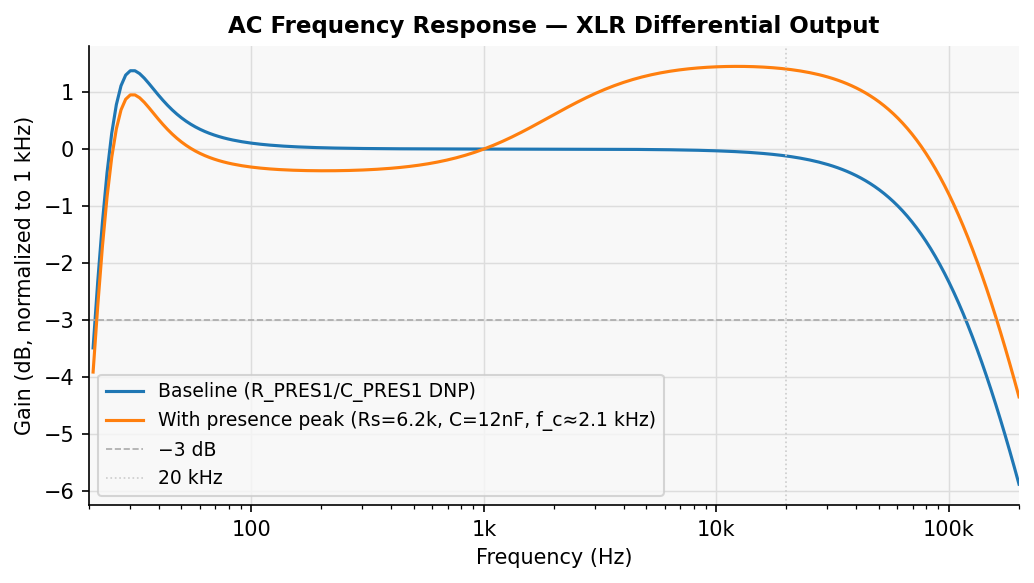
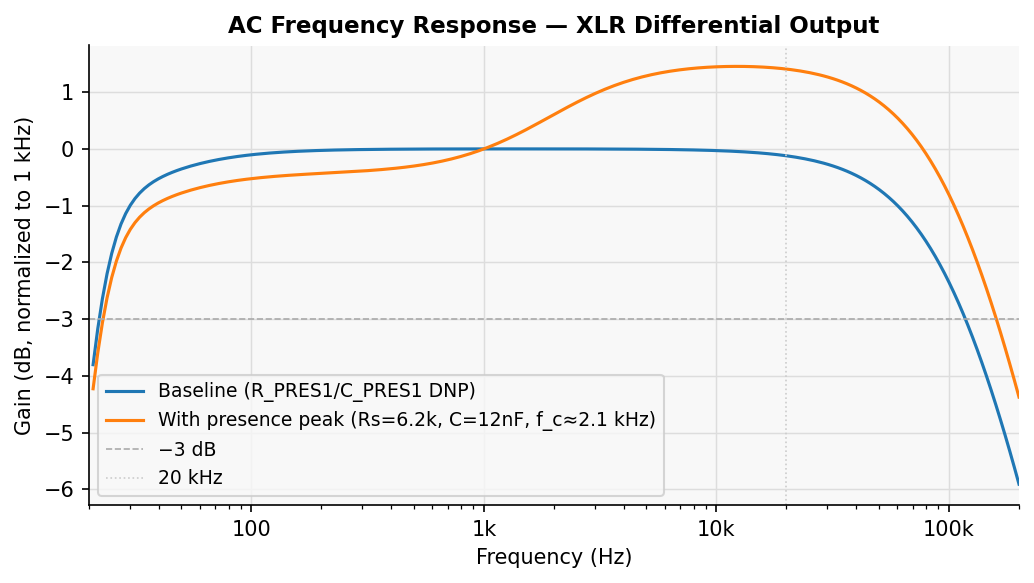
sim, docs: model the transformer with the standard equivalent circuit (#132)
The transformer was an ideal inductor. It is now modelled the usual way for an
audio transformer: winding resistance, magnetising inductance with core loss Rc
in parallel, and leakage. The 3-turn section is Lp = 10 H with Rc = 4 kOhm,
fitted to the configuration S sweep on the 3-turn wiring (rms 0.4 dB from 20 to
300 Hz, against 1.1 dB for the best ideal inductor), consistent with Neutrik's
-2 dB spec.

The ideal inductor rang with C_DC near 26 Hz (+1.4 dB at 30 Hz) where the
measurement shows no bump, and put the gain 2.4 to 4.3 dB above it. Now the
shape matches and a flat 1.2 to 1.4 dB remains, which the transformer cannot
account for: a smaller Rc to cover it spoils the low-end fit.

Sensitivity into 600 ohm -41.7 dBV/Pa (was -40.6); the CI bound, the README
(about -40 / -24 dBV/Pa into 1.5 kOhm, the low-end table, the plot) and the
measurement doc's 1 kHz expectation follow.

Claude-Session: https://claude.ai/code/session_01JJVE6iPs7mqtayJNH2CABt

diff --git a/README.md b/README.md
@@ -14,7 +14,7 @@ This design uses a Dickson charge pump oscillator to generate a 68 V HV rail fro
 - CD40106B Schmitt-trigger oscillator + 3-stage active Dickson charge pump
 - About 57 V capsule polarization (HV_FILT ≈ 69 V, set by the 15 V clock rail; a 75 V zener only protects it), referenced to the 12 V midpoint
 - HV rail RC filter: 1 MΩ (R_HV) + 470 nF, corner ~0.34 Hz; no LC resonance
-- Output sensitivity (simulated, 13 mV/Pa capsule, into a 1.5 kΩ preamp input): about −39 dBV/Pa default (R6 = 5.6 kΩ, gain ≈ 3.5×); about −23 dBV/Pa hi-gain (R6 = 47 kΩ, gain ≈ 22×). About 1.4 dB lower into 600 Ω and 1.1 dB higher unloaded; output impedance is about 200 Ω (about 310 Ω up to v3.6, with 100 Ω RFI resistors; #113)
+- Output sensitivity (simulated, 13 mV/Pa capsule, into a 1.5 kΩ preamp input): about −40 dBV/Pa default (R6 = 5.6 kΩ, gain ≈ 3.5×); about −24 dBV/Pa hi-gain (R6 = 47 kΩ, gain ≈ 22×), with the transformer's core loss modelled (#132). A built board measured about 1.3 dB below this, flat across the band; that offset is not from the transformer model and is still open. About 1.4 dB lower into 600 Ω and 1.1 dB higher unloaded; output impedance is about 200 Ω (about 310 Ω up to v3.6, with 100 Ω RFI resistors; #113)
 - Maximum SPL before the op-amp output clips (calculated): about 143 dB SPL peak at default gain, about 127 dB SPL peak at hi-gain
 - RFI filter on XLR output: 47 Ω + 220 pF on each leg (R_RFI1/R_RFI2, C_RFI1/C_RFI2; corner about 15 MHz). C_RFI is rated 100 V because it sits on the phantom-fed pins
 - Phantom power draw: ~4.6 mA typical at 48 V (IEC 61938 P48 rated maximum: 10 mA)
@@ -44,15 +44,16 @@ Charge pump settles to ~68 V within ~1 ms. HV_FILT is RC-filtered (1 MΩ + 470 n
 
 Behavioral model, gain normalized to 1 kHz. The **blue curve** (baseline / DNP) is flat within about ±1 dB from ~500 Hz to ~20 kHz. Two high-pass mechanisms shape the low end: the input network (R_GBIAS1 ∥ R_BIAS1 = 100 MΩ against the 55 pF capsule, corner ~29 Hz) and the output DC block (C_DC = 4.7 µF) with the transformer. A third sits below them: C_G1 (10 µF) in series with R3, corner 7.2 Hz, about 0.7 dB at 20 Hz. It makes the amplifier's gain 1 at DC, so offset and leakage at the 200 MΩ input do not move the operating point (`amp_dc_offset.sp`, #123).
 
-> **The low end of the default wiring is measured (#128).** The plot uses `Lp = 8 H` for the driven 3-turn section, fitted from a sweep on the 3-turn wiring into a 1.2 kΩ input (6 to 10 H fit about as well). With the 3-turn section the transformer's inductance against its own winding resistance (521 to 540 Ω) and C_DC sets a corner with a small resonance near 30 Hz. The earlier `Lp = 1 H` was a lower bound scaled from a full-winding sweep, whose low end is set by the input network, and it was too pessimistic.
+> **The low end of the default wiring is measured (#128).** The transformer is modelled with the standard equivalent circuit, including core loss: its driven 3-turn section is `Lp = 10 H` with `Rc = 4 kΩ` in parallel, fitted from a sweep on the 3-turn wiring into a 1.2 kΩ input (#132). With the 3-turn section the transformer's inductance against its own winding resistance (521 to 540 Ω) and C_DC sets the low corner. An ideal inductor (8 H) fits the low end less well and rings with C_DC near 30 Hz. The earlier `Lp = 1 H` was a lower bound scaled from a full-winding sweep, whose low end is set by the input network, and it was too pessimistic.
 >
 > | | 20 Hz | 30 Hz | 50 Hz | 100 Hz |
 > |---|---|---|---|---|
 > | measured, 3-turn, presence fitted, 1.2 kΩ (relative to 1 kHz) | −5.0 dB | −0.6 dB | −1.4 dB | −0.7 dB |
-> | model, `Lp = 8 H` (plotted, baseline) | −4.7 dB | +1.4 dB | +0.6 dB | +0.1 dB |
+> | model, `Lp = 10 H`, `Rc = 4 kΩ` (plotted, baseline) | −4.5 dB | −1.0 dB | −0.4 dB | −0.1 dB |
+> | model, ideal `Lp = 8 H` | −4.7 dB | +1.4 dB | +0.6 dB | +0.1 dB |
 > | model, `Lp = 1 H` (the earlier lower bound) | −27 dB | −18 dB | −8 dB | −1 dB |
 >
-> The measured row is on a board with the presence network, which lowers the band below 1 kHz by about 0.4 dB against 1 kHz. The 30 Hz bump in the model is not seen in the measurement. On the full winding the measured response is −3 dB at 33 Hz and −5 dB at 20 Hz, set by the input network.
+> The measured row is on a board with the presence network, which lowers the band below 1 kHz by about 0.4 dB against 1 kHz. On the full winding the measured response is −3 dB at 33 Hz and −5 dB at 20 Hz, set by the input network.
  The **orange curve** shows the optional presence-peak network populated: +2.6 dB shelving above f_c ≈ 2.1 kHz.
 
 #### Optional presence-peak network (R_PRES1, C_PRES1)

diff --git a/docs/measurement.md b/docs/measurement.md
@@ -216,7 +216,7 @@ group of inputs is optional, so a partial session still gives a partial report.
 
 | Result | Simulation | What a difference means |
 |---|---|---|
-| Gain at 1 kHz | about −1.0 dB into 4 kΩ with a 56 pF dummy (sensitivity about −39 dBV/Pa with a 13 mV/Pa capsule); about 0.2 dB lower on boards up to v3.6 (100 Ω RFI resistors) | more than ±1.5 dB off: check R3, R6, the load value and the meter readings |
+| Gain at 1 kHz | about −2.2 dB into 4 kΩ with a 56 pF dummy (sensitivity about −40 dBV/Pa with a 13 mV/Pa capsule; −1.0 dB with an ideal transformer, #132); about 0.2 dB lower on boards up to v3.6 (100 Ω RFI resistors) | more than ±1.5 dB off: check R3, R6, the load value and the meter readings |
 | Low-frequency −3 dB corner | about 30 Hz on the full winding (set by the input network); on the 3-turn section about 22 Hz (−5 dB at 20 Hz, nearly flat from 30 Hz) | measured on the 3-turn section, `Lp` about 8 H, which `sim/models/passives.lib` now uses (#128) |
 | Fit error | below about 1 dB | larger: the low end is not behaving like the model. Compare with the hot sweep for saturation |
 | Self-noise | about 20 dB(A) equivalent with a 47 to 56 pF dummy (19.1 with a 55 pF capsule); about 45 nV/√Hz at 1 kHz, 12 nV/√Hz at 10 kHz | higher at low frequency only: leakage or hum. Higher everywhere: supply or interface noise. Check the interface margin line |
